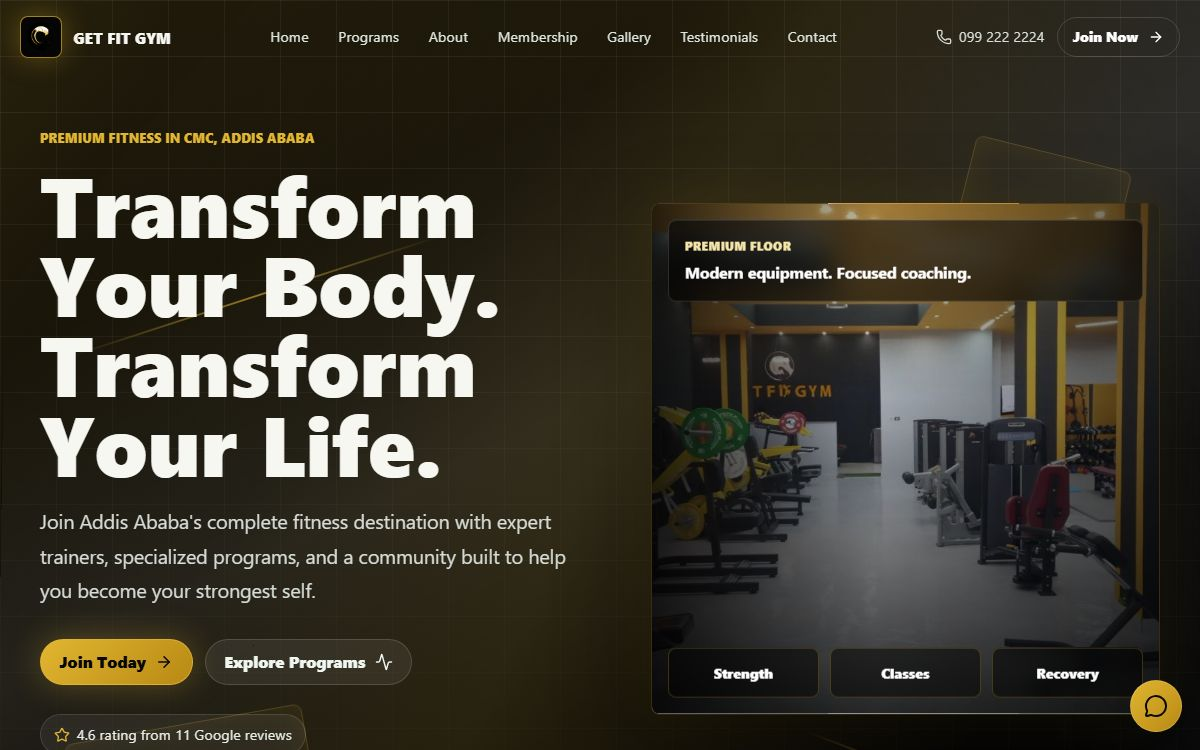
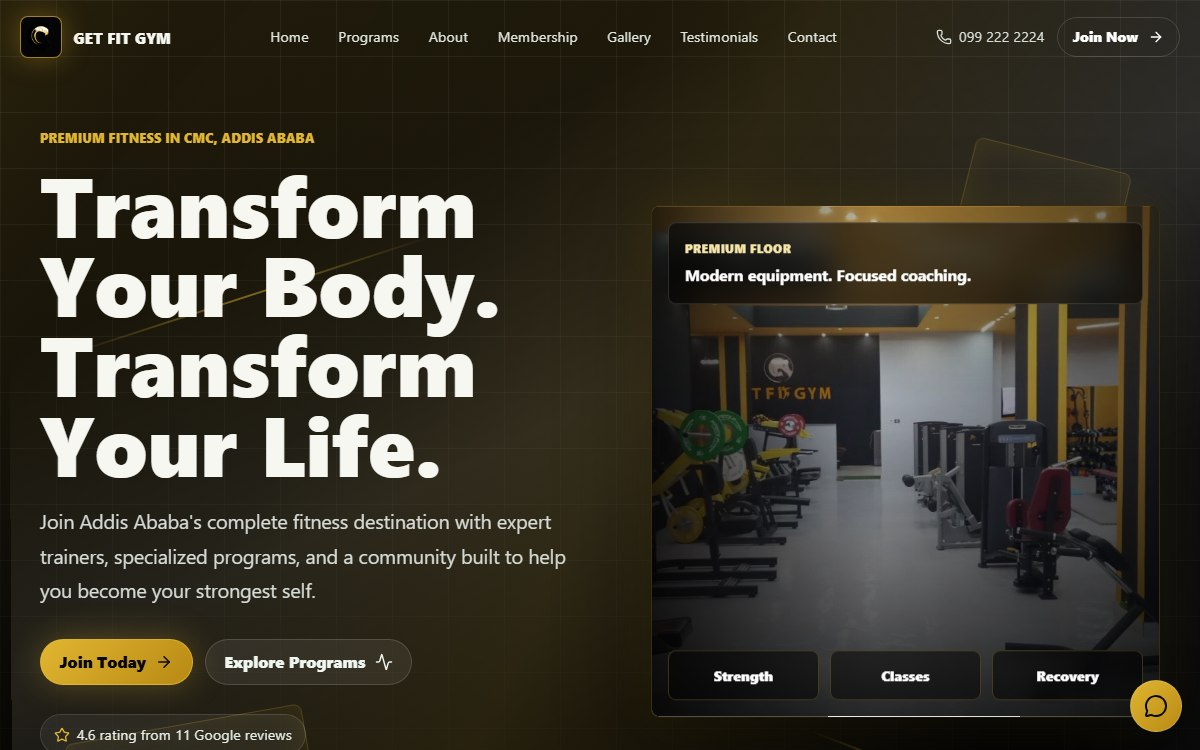
Polish GET FIT GYM site responsiveness

diff --git a/app/globals.css b/app/globals.css
@@ -138,10 +138,13 @@ a {
   display: inline-grid;
   width: 2.65rem;
   height: 2.65rem;
+  flex: 0 0 auto;
+  margin-left: auto;
   place-items: center;
-  border: 1px solid rgba(255, 255, 255, 0.16);
+  border: 1px solid rgba(225, 182, 49, 0.48);
   border-radius: 8px;
-  background: rgba(255, 255, 255, 0.07);
+  background: rgba(225, 182, 49, 0.14);
+  box-shadow: 0 0 22px rgba(225, 182, 49, 0.2);
   color: #ffffff;
 }
 
@@ -369,6 +372,10 @@ a {
   font-weight: 950;
   line-height: 0.95;
   text-wrap: balance;
+}
+
+.hero-copy h1 span {
+  display: block;
 }
 
 .hero-subtitle {
@@ -1441,7 +1448,7 @@ a {
 @media (min-width: 1024px) {
   .nav-toggle,
   .mobile-panel {
-    display: none;
+    display: none !important;
   }
 }
 